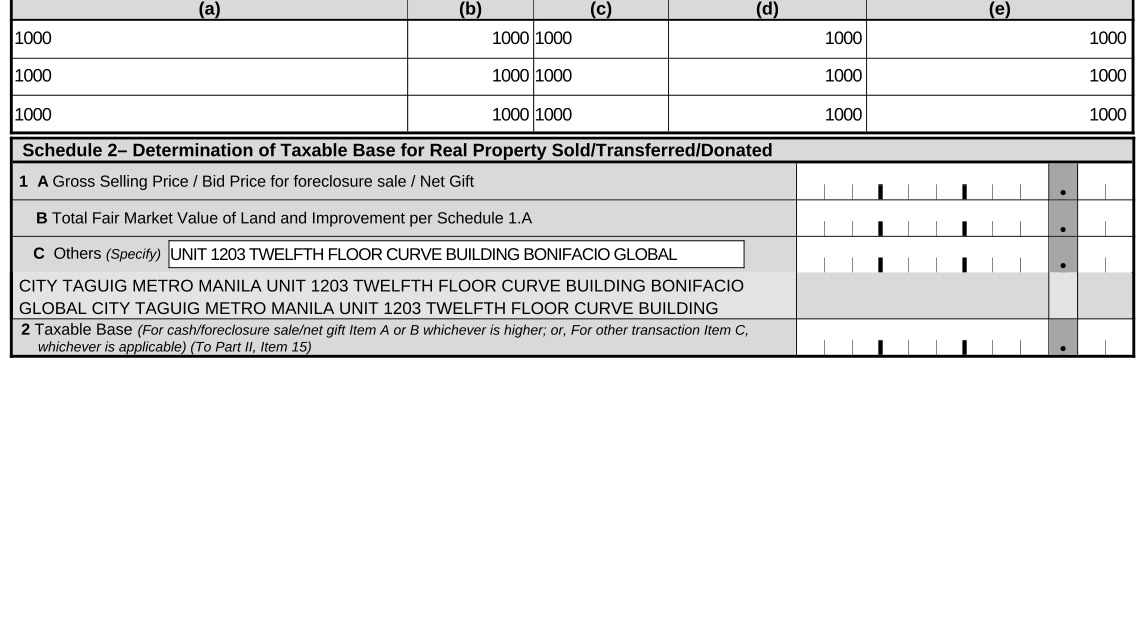
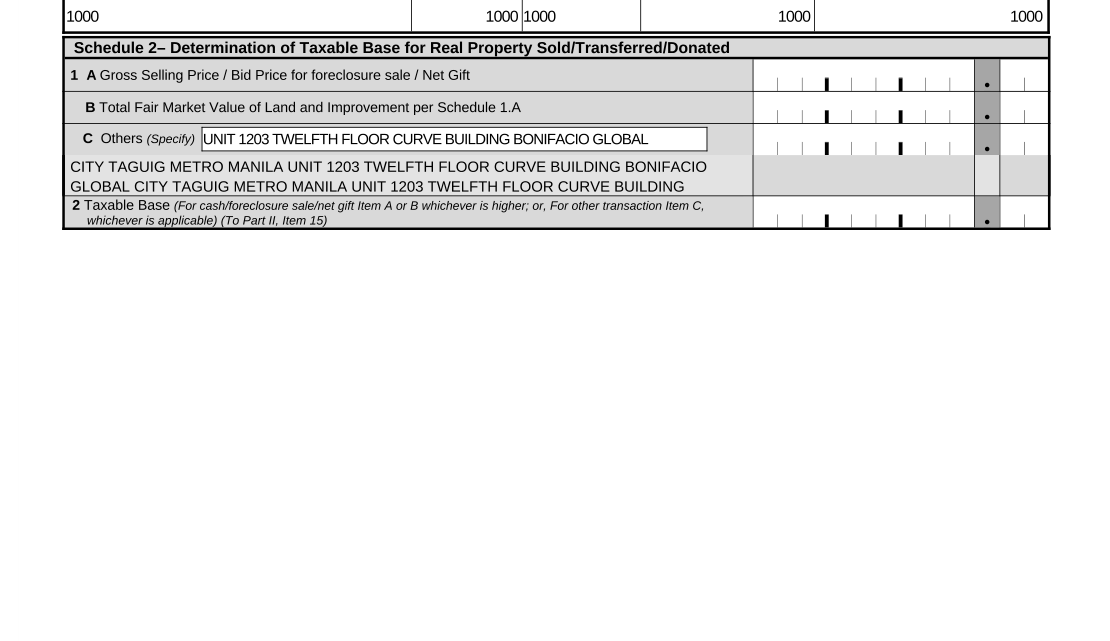
docs/proof: re-render after-2000-ot and after-1701q-stacked at the final head
Both pictures re-rendered through the committed print-path command at the
fixed head (snap + whole-word two-line cuts); the composer writes three
ASCII dots and the README now says so.

diff --git a/docs/proof/rule6-band-uses-own-field/README.md b/docs/proof/rule6-band-uses-own-field/README.md
@@ -14,7 +14,7 @@ columns). The page spends only the room it has — trailing space plus what
 an elastic band yields — capped at 6 added lines, and one strip is never
 admitted when it cannot hold its 14 pt (a page with less room truncates in
 the cell instead); when the value still does not fit, the last line ends
-with a whole-word "…" and the WHOLE value prints on the additional sheet
+with a whole-word "..." and the WHOLE value prints on the additional sheet
 (a test asserts no text is ever lost). In each pair:
 
 - the original specify field holds the first part of the value (before: it
@@ -37,5 +37,5 @@ bfb20e042b7997d7870049ca2dd3dc14a24de9032751ed53cb16042c871d5b40  after-1701ms-2
 a6c60b8c5c932d27945a5d13daffd32d6678eb00424ec09f60101ded9ce1103d  before-1701-2018.png
 20c395f7b9e4ea8110a71230b0bb7fbfd6cd61e0de8844ff3e67b0eb4228c4be  after-1701-2018.png
 130ba5a4bb07f35b5500110afda759d1a1460ab5df7b08871ce54956ceaa5196  before-2000-ot-2018.png
-0baf33a82fa5dcc47e9b070fead7d15e340c2b3460440568ccfcaa335e6f23b2  after-2000-ot-2018.png
+4a6e4b0e7a4abee771f134e763a5c4d271a45156670ddcdacaade62e3a829b11  after-2000-ot-2018.png
 ```

diff --git a/docs/proof/rule6-strip-keeps-lines/README.md b/docs/proof/rule6-strip-keeps-lines/README.md
@@ -43,6 +43,7 @@ sha256:
 fc0c2aee5ce9a1e86d59daa5169560a1761e05ba07720e3b484e1b0b91880eb1  before-1701ms-item9-strip.png
 4d47071f6430d258f7f3e098581a81b72683fb174dcbba13e68f51d384b338b1  after-1701ms-item9-strip.png
 d244d92e66feb13d4053b9736df9d486c09a5e289c0ee8323582df0a3a0a5d8d  official-1701ms-same-area.png
+2f02826bb0a0dbdf577536f0eb47ad2a179d75f67003ff0b4a30c2b9ab1a88e9  after-1701q-page2-stacked-strips.png
 ```
 
 * `after-1701q-page2-stacked-strips.png` — 1701q page 2: the strips for
